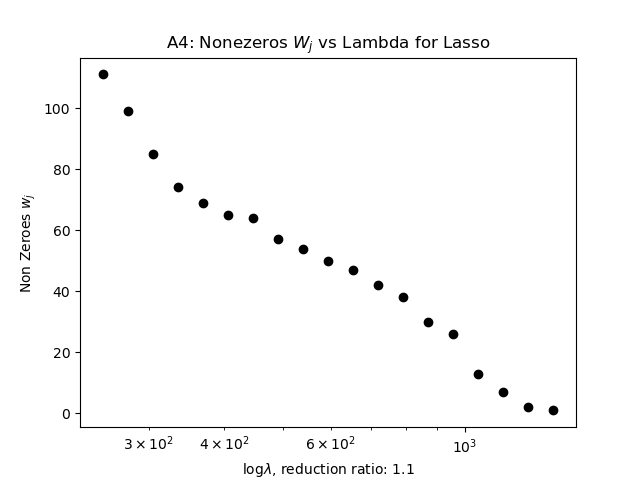
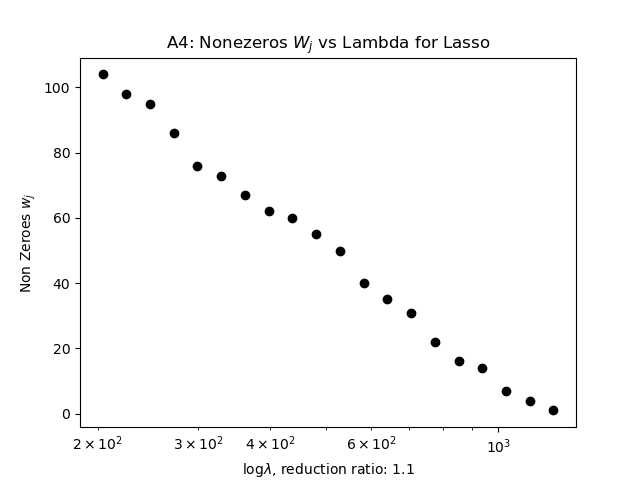
A4 fixed

diff --git a/HW2/hw2Atex/hw2A.tex b/HW2/hw2Atex/hw2A.tex
@@ -136,6 +136,9 @@
         The function III is convex on $[c,d]$. It can be verified visually.
 \section*{A.4}
     This is the code for producing plots in A.4: 
+    \\
+    File name: ``lasso.py''
+    File Content: 
     \begin{lstlisting}[language=python]
 """
 This code is for CSE 546, Spring 2021, Question A4.
@@ -184,7 +187,7 @@ class LassoRegression:
         this.Lambda = regularization_lambda
         this.Verbose = verbose
         this.Delta = delta
-        this._w = None
+        this._weights = None
         this._b = None
 
     def fit(this, X, y):
@@ -205,31 +208,31 @@ class LassoRegression:
         assert X.shape[0] == y.shape[0], \
             "The number of rows of X must equal to the number elements in y. "
         MaxItr = 10000
-        n, d = X.shape[0], X.shape[1]
-        y2d = y[:, np.newaxis]
-        deltaW = this.Delta*ones((n, 1))*1.1
-        # Use previous for optimization if model is asked to optimize for a second time.
-        w = zeros((d, 1)) if this._w is None else this.w
-        l = this.Lambda
+        n, d   = X.shape[0], X.shape[1]
+        y2d    = y[:, np.newaxis]
+        deltaW = this.Delta*ones((d, 1))*1.1                   # Amount of changes for each predictor while iterating
+        w      = zeros((d, 1)) if (this._weights is None) else this._weights.copy()
+                                                                # !!! Use previous for optimization if model is
+                                                                # asked to optimize for a second time.
+        l = this.Lambda                                        # Regularizer !!!
         Itr = 0
         while norm(deltaW, inf) > this.Delta and Itr < MaxItr:
             Itr += 1
-            # compute offset vector.
-            b = mean(y2d - X@w)
-            # Compuate all the k at once, because it's not related to w_k
-            a = 2*sum(X**2, axis=0)
+            b    = mean(y2d - X@w)     # compute offset vector.
+            a    = 2*sum(X**2, axis=0) # Compuate all the k at once, because it's not related to w_k
             for k in range(d):
-                a_k = a[k]
+                a_k     = a[k]
                 Indices = [J for J in range(d) if J != k]
-                c_k = 2*sum(
-                    X[::, [k]]
-                    *
-                    (y2d - (b + X[:, Indices]@w[Indices]))
-                )
-                w_k = 0 if (abs(c_k) < l) else (c_k - sign(c_k)*l)/a_k
-                deltaW = abs(w_k - w[k])
-                w[k] = w_k
-                this._print(f"optimizing on w_{k}, get w_{k} = {w[k]}")
+                c_k     = 2*sum(
+                                X[::, [k]]
+                                *
+                                (y2d - (b + X[:, Indices]@w[Indices]))
+                            )
+                w_k       = 0 if (abs(c_k) < l) else (c_k - sign(c_k)*l)/a_k
+                deltaW[k, ...] = abs(w_k - w[k, ...])
+                w[k]      = w_k
+            this._print(f"delta w is: {deltaW.reshape(-1)}")
+            this._print(f"lambda is: {this.Lambda}")
         if MaxItr == Itr: raise Exception("Coordinate descent Max Itr reached without converging")
         this._weights = w
         this._b = b
@@ -237,14 +240,14 @@ class LassoRegression:
 
 
     @property
-    def w(this):
+    def w(this):   # get the weights of the model.
         return this._weights.copy()
 
     @property
-    def b(this):
+    def b(this):   # Get the offset of the model.
         return this._b.copy()
 
-    def _print(this, mesg):
+    def _print(this, mesg):  # print out the message if in verbose mode.
         if this.Verbose: print(mesg)
 
 
@@ -302,8 +305,8 @@ def A4a_b():
     xlabel(f"$\log{{\lambda}}$, reduction ratio: {r}")
     ylabel("Non Zeroes $w_j$")
     title("A4: Nonezeros $W_j$ vs Lambda for Lasso")
+    plt.savefig("A4a-plot.png")
     show()
-    saveas("A4a-plot.png", format="png")
 
 
     # Part (b)
@@ -328,11 +331,8 @@ def A4a_b():
     xlabel("$\lambda$")
     xscale("log")
     legend(["FDR", "TPR"])
+    plt.savefig("A4b-plot.png")
     show()
-    saveas("A4b-plot.png", format="png")
-
-
-
 
 
 def main():

diff --git a/HW2/hwcode/lasso.py b/HW2/hwcode/lasso.py
@@ -45,7 +45,7 @@ class LassoRegression:
         this.Lambda = regularization_lambda
         this.Verbose = verbose
         this.Delta = delta
-        this._w = None
+        this._weights = None
         this._b = None
 
     def fit(this, X, y):
@@ -69,9 +69,10 @@ class LassoRegression:
         n, d   = X.shape[0], X.shape[1]
         y2d    = y[:, np.newaxis]
         deltaW = this.Delta*ones((d, 1))*1.1                   # Amount of changes for each predictor while iterating
-        w      = zeros((d, 1)) if this._w is None else this._w # !!! Use previous for optimization if model is
+        w      = zeros((d, 1)) if (this._weights is None) else this._weights.copy()
+                                                               # !!! Use previous for optimization if model is
                                                                # asked to optimize for a second time.
-        l = this.Lambda                                        # Regularizer
+        l = this.Lambda                                        # Regularizer !!!
         Itr = 0
         while norm(deltaW, inf) > this.Delta and Itr < MaxItr:
             Itr += 1
@@ -88,7 +89,8 @@ class LassoRegression:
                 w_k       = 0 if (abs(c_k) < l) else (c_k - sign(c_k)*l)/a_k
                 deltaW[k, ...] = abs(w_k - w[k, ...])
                 w[k]      = w_k
-                this._print(f"optimizing on w_{k}, get w_{k} = {w[k]}")
+            this._print(f"delta w is: {deltaW.reshape(-1)}")
+            this._print(f"lambda is: {this.Lambda}")
         if MaxItr == Itr: raise Exception("Coordinate descent Max Itr reached without converging")
         this._weights = w
         this._b = b
@@ -96,14 +98,14 @@ class LassoRegression:
 
 
     @property
-    def w(this):
+    def w(this):   # get the weights of the model.
         return this._weights.copy()
 
     @property
-    def b(this):
+    def b(this):   # Get the offset of the model.
         return this._b.copy()
 
-    def _print(this, mesg):
+    def _print(this, mesg):  # print out the message if in verbose mode.
         if this.Verbose: print(mesg)
 
 

diff --git a/HW2/hwcode/crime_data_lasso.py b/HW2/hwcode/crime_data_lasso.py
@@ -41,6 +41,9 @@ def A5PlotsAndShow():
         FlagCur = Lambda < 0.01  # Last one!
         if Model is None:
             Model = LassoRegression(regularization_lambda=Lambda)
+        else:
+            Model.Lambda = Lambda
+
         Model.fit(Xtrain, Ytrain)
         Ws.append(Model.w)
         Lambdas.append(Lambda)
@@ -51,15 +54,8 @@ def A5PlotsAndShow():
     plt.savefig("A5a-plot.png")
     plt.show()
 
-
-
-
-
-
 def main():
     A5PlotsAndShow()
-
-
 
 
 if __name__ == "__main__":
